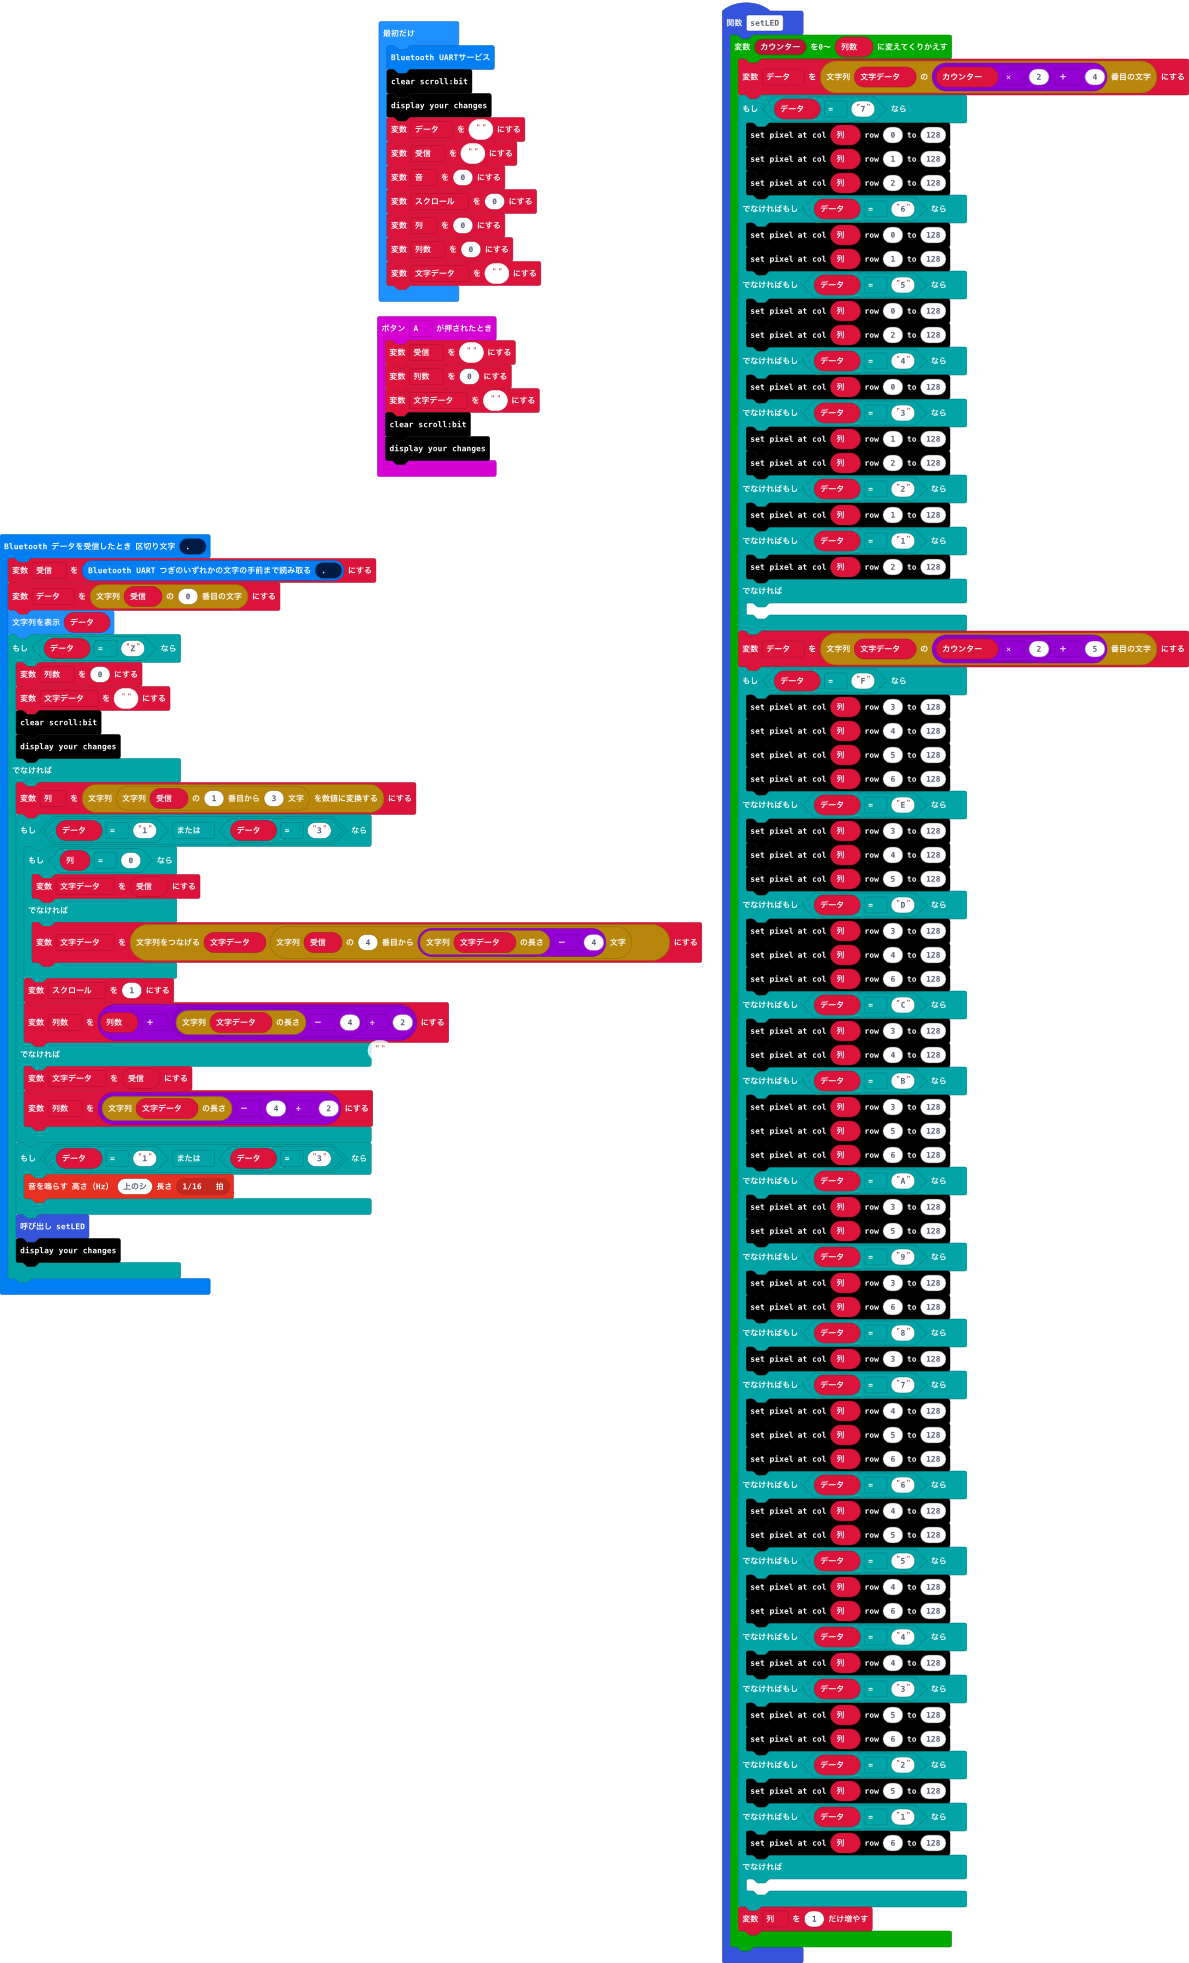
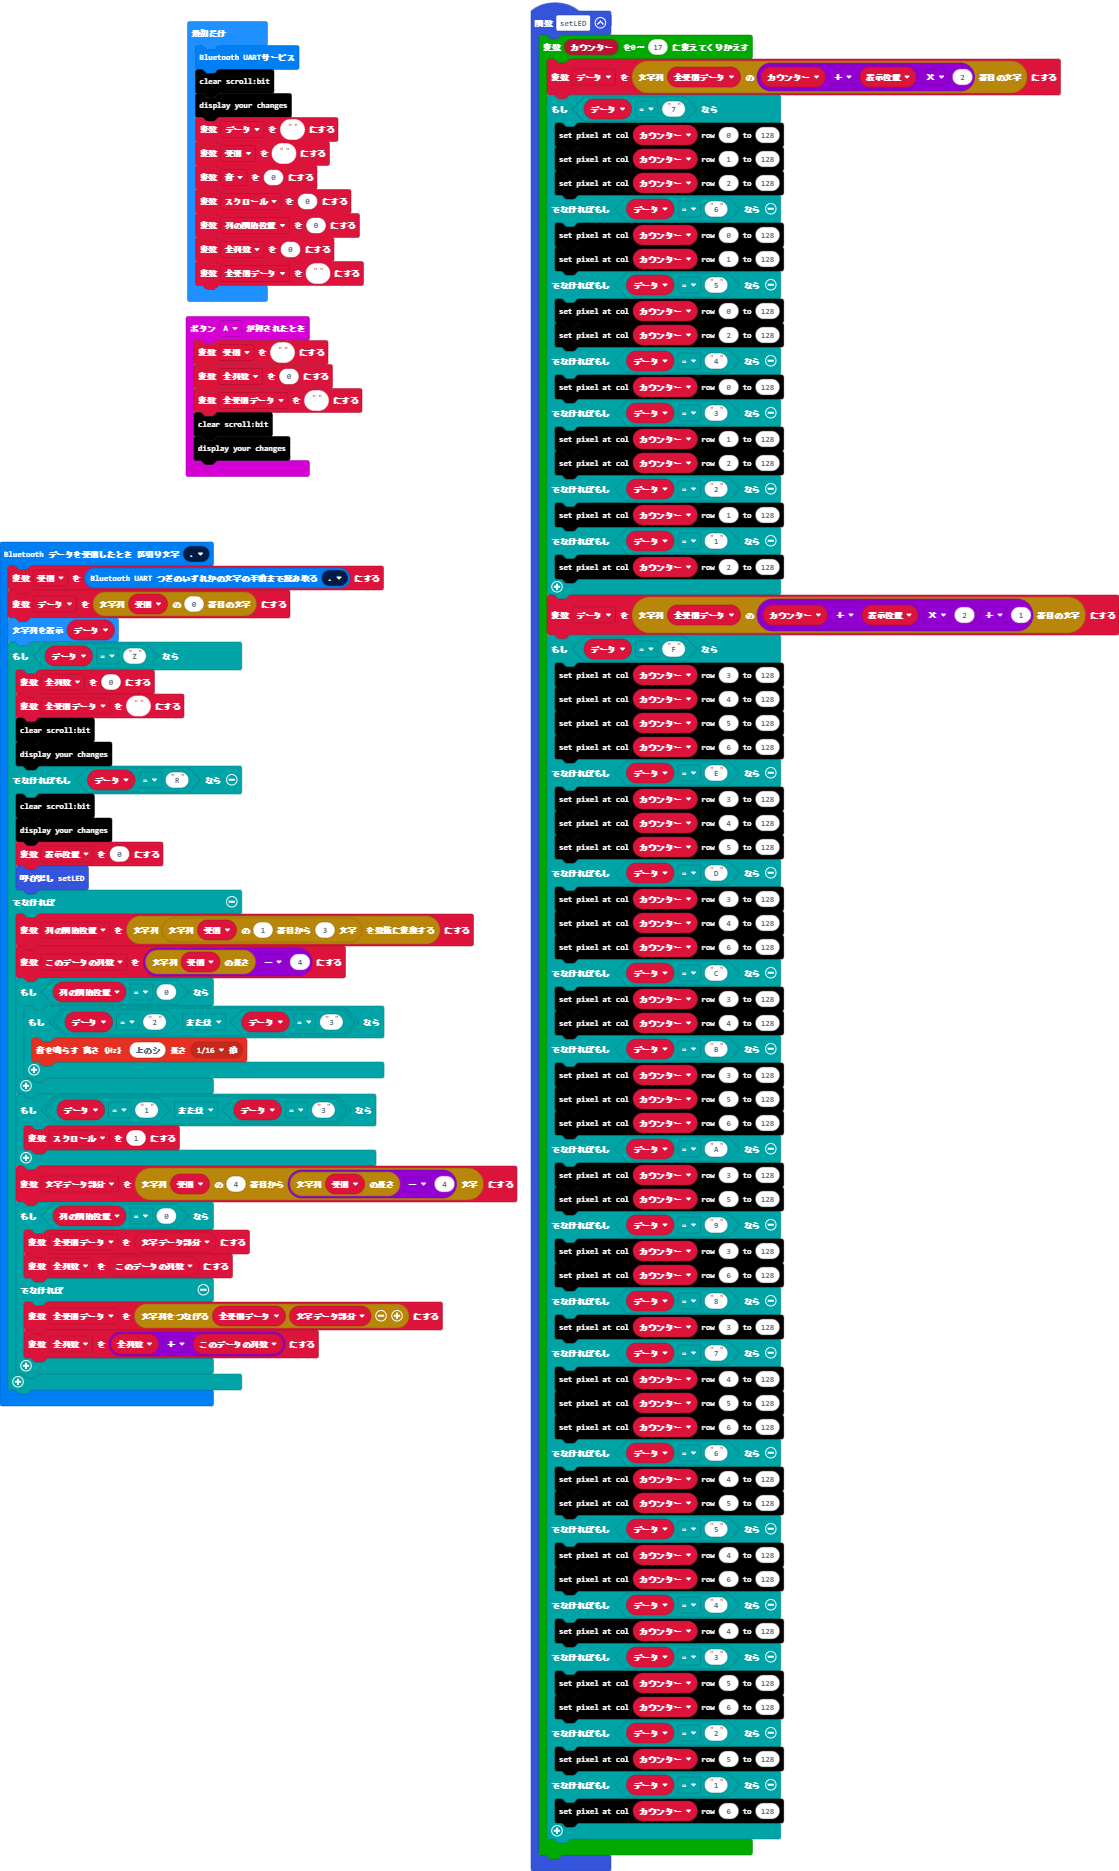
一括転送に変更

diff --git a/main.ts b/main.ts
@@ -1,7 +1,7 @@
 input.onButtonPressed(Button.A, function () {
     受信 = ""
-    列数 = 0
-    文字データ = ""
+    全列数 = 0
+    全受信データ = ""
     scrollbit.clear()
     scrollbit.show()
 })
@@ -10,113 +10,116 @@ bluetooth.onUartDataReceived(serial.delimiters(Delimiters.Fullstop), function ()
     データ = 受信.charAt(0)
     basic.showString(データ)
     if (データ == "Z") {
-        列数 = 0
-        文字データ = ""
+        全列数 = 0
+        全受信データ = ""
         scrollbit.clear()
         scrollbit.show()
-    } else {
-        列 = parseFloat(受信.substr(1, 3))
-        if (データ == "1" || データ == "3") {
-            if (列 == 0) {
-                文字データ = 受信
-            } else {
-                文字データ = "" + 文字データ + 受信.substr(4, 文字データ.length - 4)
-            }
-            スクロール = 1
-            列数 = 列数 + (文字データ.length - 4) / 2
-        } else {
-            文字データ = 受信
-            列数 = (文字データ.length - 4) / 2
-        }
-        if (データ == "1" || データ == "3") {
-            music.playTone(988, music.beat(BeatFraction.Sixteenth))
-        }
-        setLED()
+    } else if (データ == "R") {
+        scrollbit.clear()
         scrollbit.show()
+        表示位置 = 0
+        setLED()
+    } else {
+        列の開始位置 = parseFloat(受信.substr(1, 3))
+        このデータの列数 = 受信.length - 4
+        if (列の開始位置 == 0) {
+            if (データ == "2" || データ == "3") {
+                music.playTone(988, music.beat(BeatFraction.Sixteenth))
+            }
+        }
+        if (データ == "1" || データ == "3") {
+            スクロール = 1
+        }
+        文字データ部分 = 受信.substr(4, 受信.length - 4)
+        if (列の開始位置 == 0) {
+            全受信データ = 文字データ部分
+            全列数 = このデータの列数
+        } else {
+            全受信データ = "" + 全受信データ + 文字データ部分
+            全列数 = 全列数 + このデータの列数
+        }
     }
 })
 function setLED () {
-    for (let カウンター = 0; カウンター <= 列数; カウンター++) {
-        データ = 文字データ.charAt(カウンター * 2 + 4)
+    for (let カウンター = 0; カウンター <= 17; カウンター++) {
+        データ = 全受信データ.charAt((カウンター + 表示位置) * 2)
         if (データ == "7") {
-            scrollbit.setPixel(列, 0, 128)
-            scrollbit.setPixel(列, 1, 128)
-            scrollbit.setPixel(列, 2, 128)
+            scrollbit.setPixel(カウンター, 0, 128)
+            scrollbit.setPixel(カウンター, 1, 128)
+            scrollbit.setPixel(カウンター, 2, 128)
         } else if (データ == "6") {
-            scrollbit.setPixel(列, 0, 128)
-            scrollbit.setPixel(列, 1, 128)
+            scrollbit.setPixel(カウンター, 0, 128)
+            scrollbit.setPixel(カウンター, 1, 128)
         } else if (データ == "5") {
-            scrollbit.setPixel(列, 0, 128)
-            scrollbit.setPixel(列, 2, 128)
+            scrollbit.setPixel(カウンター, 0, 128)
+            scrollbit.setPixel(カウンター, 2, 128)
         } else if (データ == "4") {
-            scrollbit.setPixel(列, 0, 128)
+            scrollbit.setPixel(カウンター, 0, 128)
         } else if (データ == "3") {
-            scrollbit.setPixel(列, 1, 128)
-            scrollbit.setPixel(列, 2, 128)
+            scrollbit.setPixel(カウンター, 1, 128)
+            scrollbit.setPixel(カウンター, 2, 128)
         } else if (データ == "2") {
-            scrollbit.setPixel(列, 1, 128)
+            scrollbit.setPixel(カウンター, 1, 128)
         } else if (データ == "1") {
-            scrollbit.setPixel(列, 2, 128)
-        } else {
-        	
+            scrollbit.setPixel(カウンター, 2, 128)
         }
-        データ = 文字データ.charAt(カウンター * 2 + 5)
+        データ = 全受信データ.charAt((カウンター + 表示位置) * 2 + 1)
         if (データ == "F") {
-            scrollbit.setPixel(列, 3, 128)
-            scrollbit.setPixel(列, 4, 128)
-            scrollbit.setPixel(列, 5, 128)
-            scrollbit.setPixel(列, 6, 128)
+            scrollbit.setPixel(カウンター, 3, 128)
+            scrollbit.setPixel(カウンター, 4, 128)
+            scrollbit.setPixel(カウンター, 5, 128)
+            scrollbit.setPixel(カウンター, 6, 128)
         } else if (データ == "E") {
-            scrollbit.setPixel(列, 3, 128)
-            scrollbit.setPixel(列, 4, 128)
-            scrollbit.setPixel(列, 5, 128)
+            scrollbit.setPixel(カウンター, 3, 128)
+            scrollbit.setPixel(カウンター, 4, 128)
+            scrollbit.setPixel(カウンター, 5, 128)
         } else if (データ == "D") {
-            scrollbit.setPixel(列, 3, 128)
-            scrollbit.setPixel(列, 4, 128)
-            scrollbit.setPixel(列, 6, 128)
+            scrollbit.setPixel(カウンター, 3, 128)
+            scrollbit.setPixel(カウンター, 4, 128)
+            scrollbit.setPixel(カウンター, 6, 128)
         } else if (データ == "C") {
-            scrollbit.setPixel(列, 3, 128)
-            scrollbit.setPixel(列, 4, 128)
+            scrollbit.setPixel(カウンター, 3, 128)
+            scrollbit.setPixel(カウンター, 4, 128)
         } else if (データ == "B") {
-            scrollbit.setPixel(列, 3, 128)
-            scrollbit.setPixel(列, 5, 128)
-            scrollbit.setPixel(列, 6, 128)
+            scrollbit.setPixel(カウンター, 3, 128)
+            scrollbit.setPixel(カウンター, 5, 128)
+            scrollbit.setPixel(カウンター, 6, 128)
         } else if (データ == "A") {
-            scrollbit.setPixel(列, 3, 128)
-            scrollbit.setPixel(列, 5, 128)
+            scrollbit.setPixel(カウンター, 3, 128)
+            scrollbit.setPixel(カウンター, 5, 128)
         } else if (データ == "9") {
-            scrollbit.setPixel(列, 3, 128)
-            scrollbit.setPixel(列, 6, 128)
+            scrollbit.setPixel(カウンター, 3, 128)
+            scrollbit.setPixel(カウンター, 6, 128)
         } else if (データ == "8") {
-            scrollbit.setPixel(列, 3, 128)
+            scrollbit.setPixel(カウンター, 3, 128)
         } else if (データ == "7") {
-            scrollbit.setPixel(列, 4, 128)
-            scrollbit.setPixel(列, 5, 128)
-            scrollbit.setPixel(列, 6, 128)
+            scrollbit.setPixel(カウンター, 4, 128)
+            scrollbit.setPixel(カウンター, 5, 128)
+            scrollbit.setPixel(カウンター, 6, 128)
         } else if (データ == "6") {
-            scrollbit.setPixel(列, 4, 128)
-            scrollbit.setPixel(列, 5, 128)
+            scrollbit.setPixel(カウンター, 4, 128)
+            scrollbit.setPixel(カウンター, 5, 128)
         } else if (データ == "5") {
-            scrollbit.setPixel(列, 4, 128)
-            scrollbit.setPixel(列, 6, 128)
+            scrollbit.setPixel(カウンター, 4, 128)
+            scrollbit.setPixel(カウンター, 6, 128)
         } else if (データ == "4") {
-            scrollbit.setPixel(列, 4, 128)
+            scrollbit.setPixel(カウンター, 4, 128)
         } else if (データ == "3") {
-            scrollbit.setPixel(列, 5, 128)
-            scrollbit.setPixel(列, 6, 128)
+            scrollbit.setPixel(カウンター, 5, 128)
+            scrollbit.setPixel(カウンター, 6, 128)
         } else if (データ == "2") {
-            scrollbit.setPixel(列, 5, 128)
+            scrollbit.setPixel(カウンター, 5, 128)
         } else if (データ == "1") {
-            scrollbit.setPixel(列, 6, 128)
-        } else {
-        	
+            scrollbit.setPixel(カウンター, 6, 128)
         }
-        列 += 1
     }
 }
-let 文字データ = ""
-let 列数 = 0
-let 列 = 0
+let 文字データ部分 = ""
+let このデータの列数 = 0
+let 表示位置 = 0
+let 全受信データ = ""
+let 全列数 = 0
+let 列の開始位置 = 0
 let スクロール = 0
 let 受信 = ""
 let データ = ""
@@ -127,6 +130,6 @@ scrollbit.show()
 受信 = ""
 let 音 = 0
 スクロール = 0
-列 = 0
-列数 = 0
-文字データ = ""
+列の開始位置 = 0
+全列数 = 0
+全受信データ = ""
